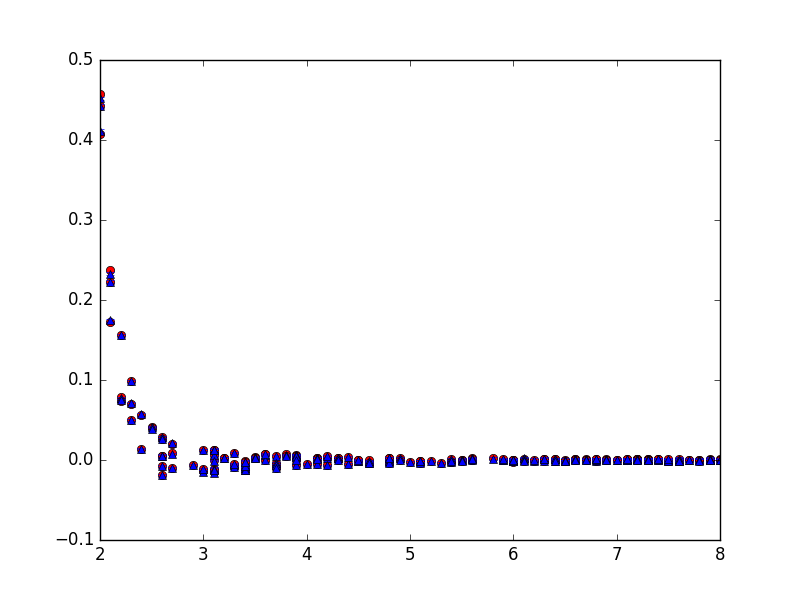
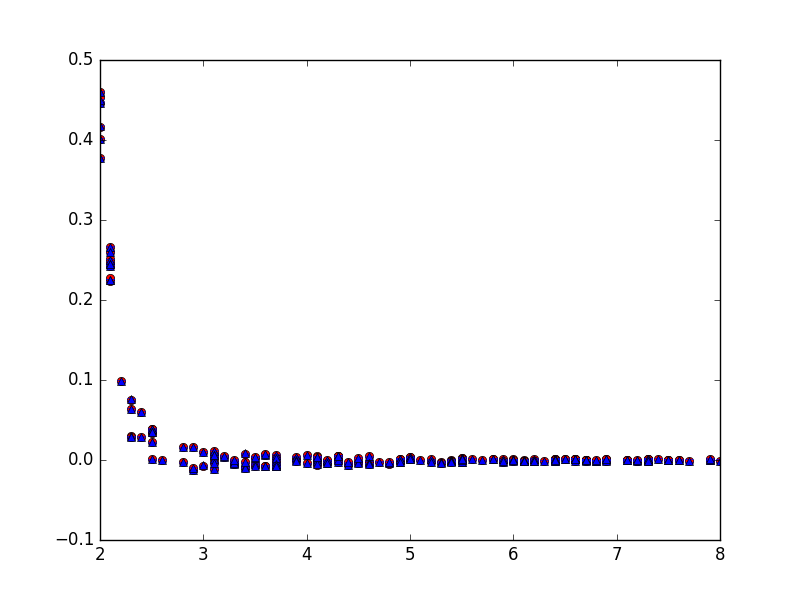
update

diff --git a/tip3p/GPtip3p.py b/tip3p/GPtip3p.py
@@ -11,7 +11,9 @@ import datagenerator
 import random
 '''
 I only used 10 000 data for training caused it was taking a long time (several minutes). The result was plotted and printed. 
-The accuracy was quite good at 10000 training. It can be further increased. 
+The accuracy was quite good at 10000 training. It can be further increased. MSE = 5E-7
+ 
+I also tried 15 000 data point. The MSE still decreased by half compared to 10 000. The accuracy further increased. MSE = 2.5E-7
 
 '''
 def load_data(): 
@@ -24,8 +26,8 @@ def load_data():
 		x.append([para1, para2, para3])
 		y.append(energy)
 
-	x_train = x[200:10000]
-	y_train = y[200:10000]
+	x_train = x[200:15000]
+	y_train = y[200:15000]
 	x_test  = x[0:200]
 	y_test = y[0:200]
 
@@ -73,7 +75,6 @@ def main():
 	'''
 	regression = 'quadratic'
 	correlation = 'absolute_exponential'
-	start = 100
 
 	gp, x_train, y_train, x_test, y_test = learning(regression,correlation)
 
